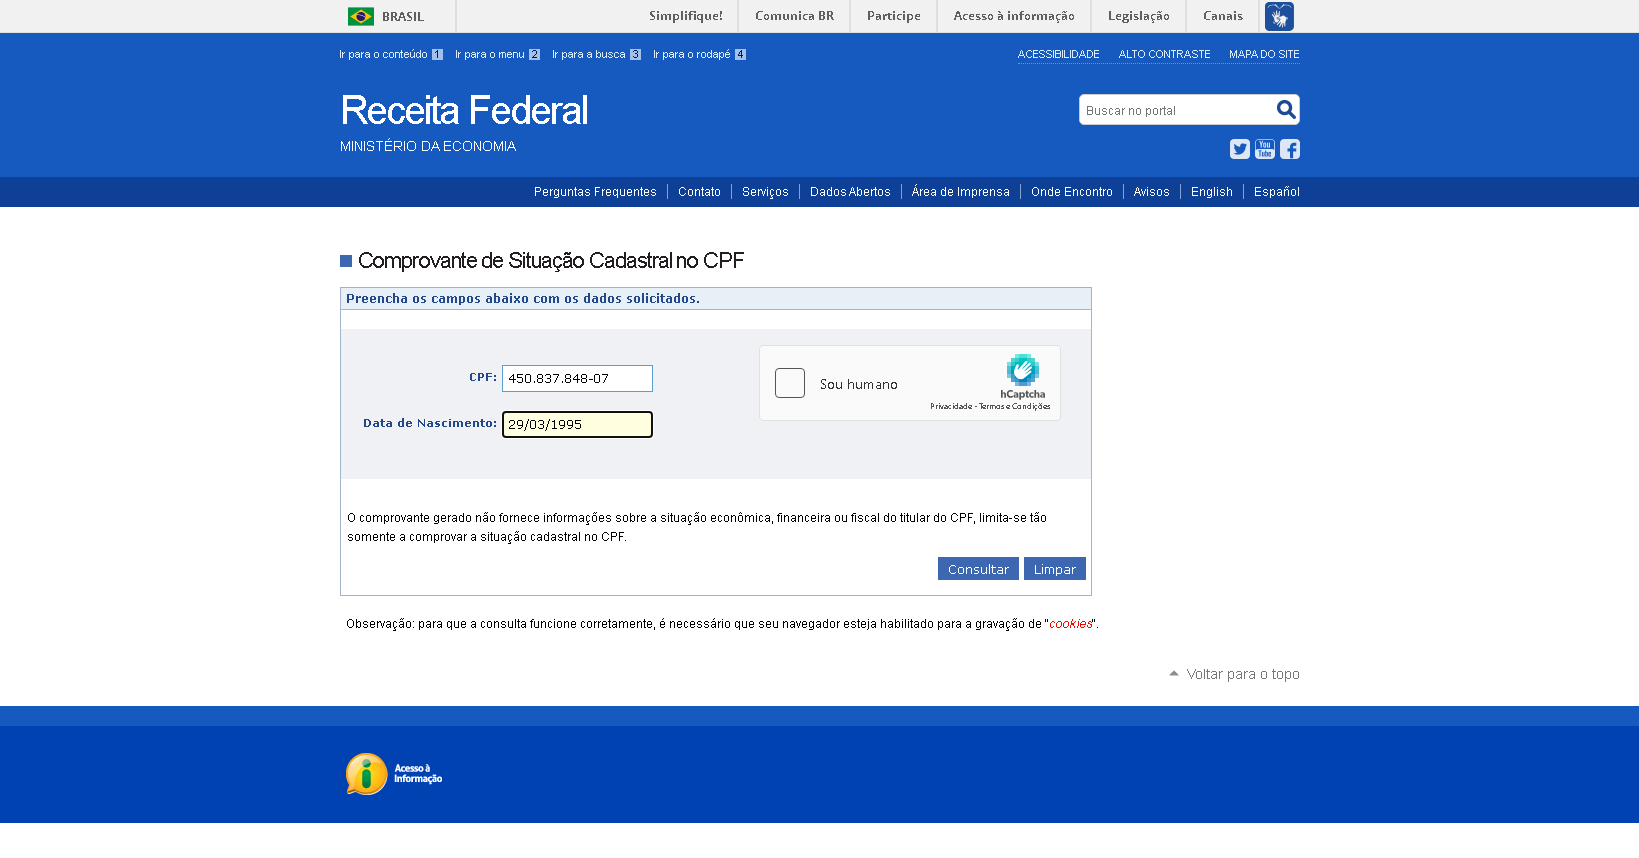
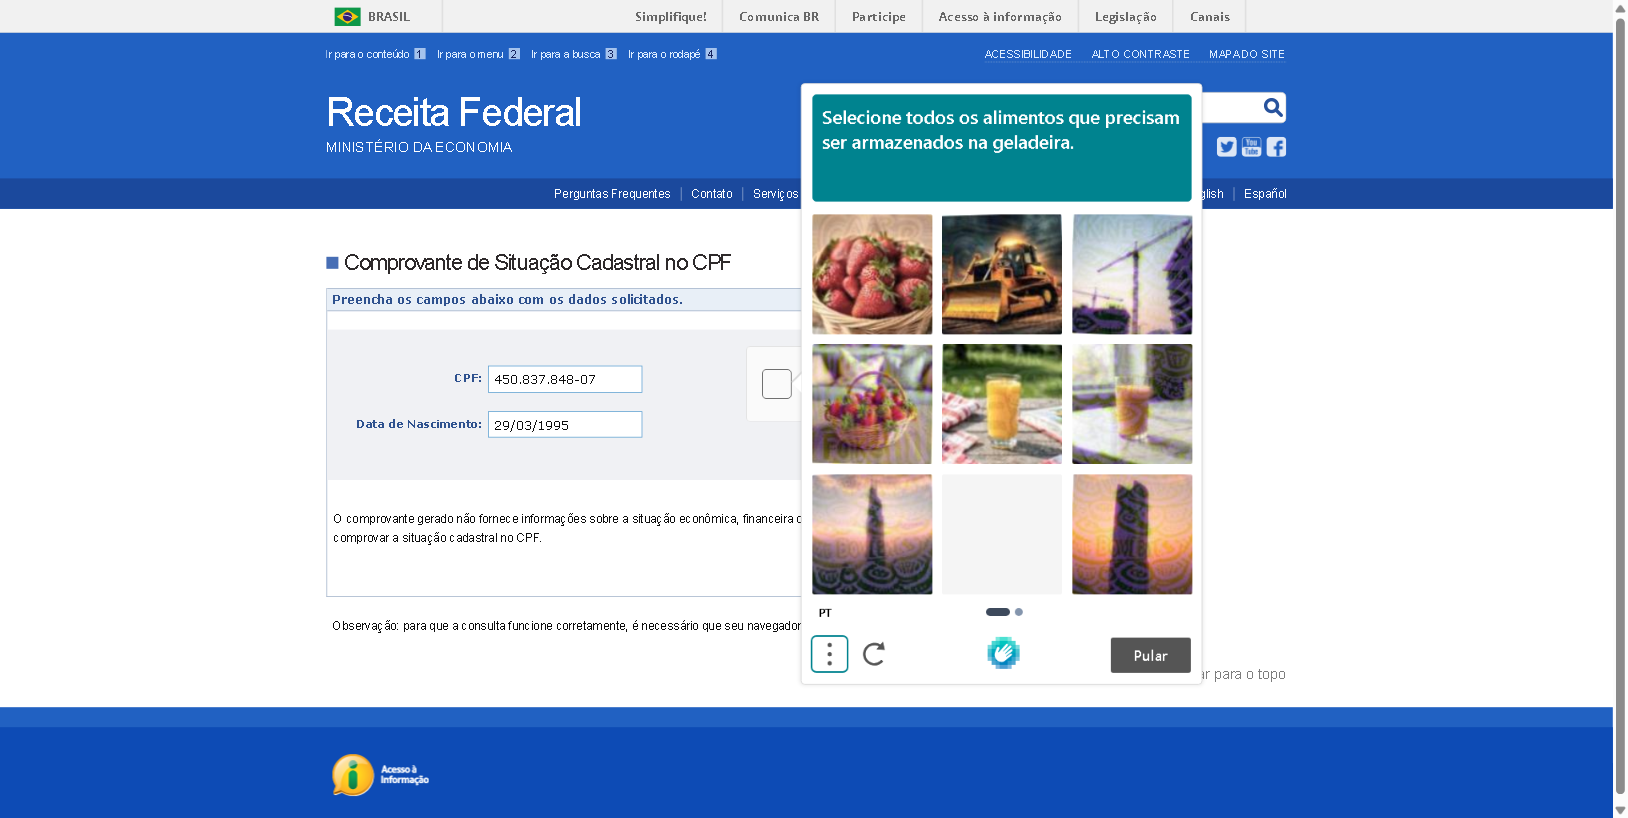
alterado tempo de vida do codigo

Changed region(s): [[0.0, 0.0, 1.0, 1.0], [0.215, 0.4279, 0.3993, 0.5196], [0.4607, 0.0, 0.5528, 0.0306]]

diff --git a/receita-scraper/scraper.js b/receita-scraper/scraper.js
@@ -267,6 +267,24 @@ class PlaywrightWebKitCPFConsultor {
         if (useExtension) {
             console.log('🔌 Extensão do CaptchaSonic detectada! Forçando uso do CHROMIUM para suporte a extensões...');
             browserTypeStr = 'chromium';
+
+            // Garantir que a API Key do .env esteja sincronizada na configuração padrão da extensão
+            const apiKey = process.env.CAPTCHASONIC_KEY;
+            if (apiKey) {
+                const configPath = path.join(extensionPath, 'config', 'defaultConfig.json');
+                if (fs.existsSync(configPath)) {
+                    try {
+                        const defaultConfig = JSON.parse(fs.readFileSync(configPath, 'utf8'));
+                        if (defaultConfig.APIKEY !== apiKey) {
+                            defaultConfig.APIKEY = apiKey;
+                            fs.writeFileSync(configPath, JSON.stringify(defaultConfig, null, 2));
+                            console.log('🔑 API Key do CaptchaSonic sincronizada na extensão!');
+                        }
+                    } catch (err) {
+                        console.log('⚠ Aviso ao sincronizar API Key na extensão:', err.message);
+                    }
+                }
+            }
         }
 
         console.log(`🚀 Iniciando Playwright com ${browserTypeStr.toUpperCase()} para consulta CPF...`);
@@ -372,6 +390,31 @@ class PlaywrightWebKitCPFConsultor {
             const pages = this.context.pages();
             this.page = pages.length > 0 ? pages[0] : await this.context.newPage();
             this.browser = null; // Sem objeto browser em contexto persistente
+
+            // Assegurar que a APIKey do .env é gravada no chrome.storage.local do contexto ativo da extensão
+            const apiKey = process.env.CAPTCHASONIC_KEY;
+            if (apiKey) {
+                try {
+                    let sw = (this.context.serviceWorkers && this.context.serviceWorkers()[0]);
+                    if (!sw && this.context.waitForEvent) {
+                        sw = await this.context.waitForEvent('serviceworker', { timeout: 3000 }).catch(() => null);
+                    }
+                    if (sw) {
+                        await sw.evaluate((key) => {
+                            if (typeof chrome !== 'undefined' && chrome.storage && chrome.storage.local) {
+                                chrome.storage.local.get('settings', (data) => {
+                                    const settings = data.settings || {};
+                                    settings.APIKEY = key;
+                                    settings.ACTIVE = true;
+                                    chrome.storage.local.set({ settings });
+                                });
+                            }
+                        }, apiKey).catch(() => {});
+                    }
+                } catch (swErr) {
+                    // Silencioso se o worker não estiver pronto
+                }
+            }
         } else {
             // Inicialização normal (sem extensão ou navegador diferente do Chromium)
             this.browser = await browserEngine.launch({
@@ -565,7 +608,7 @@ class PlaywrightWebKitCPFConsultor {
             console.log('🔍 Aguardando a resolução do hCaptcha pela extensão CaptchaSonic...');
             try {
                 let resolvido = false;
-                const maxEsperaSegundos = 45;
+                const maxEsperaSegundos = 20;
 
                 for (let sec = 0; sec < maxEsperaSegundos; sec++) {
                     await this.page.waitForTimeout(500);
@@ -610,10 +653,50 @@ class PlaywrightWebKitCPFConsultor {
                 }
 
                 if (!resolvido) {
-                    throw new Error('Tempo limite excedido aguardando a resolução do hCaptcha.');
+                    console.log('⚠ Extensão não preencheu o captcha a tempo. Acionando fallback via API direta do CaptchaSonic...');
+                    
+                    // Extrair sitekey da página
+                    const sitekey = await this.page.evaluate(() => {
+                        const el = document.querySelector('.h-captcha[data-sitekey]');
+                        if (el && el.getAttribute('data-sitekey')) return el.getAttribute('data-sitekey');
+                        const iframe = document.querySelector('iframe[src*="sitekey="]');
+                        if (iframe) {
+                            const match = iframe.src.match(/sitekey=([^&]+)/);
+                            if (match) return match[1];
+                        }
+                        return 'c94f5859-994c-473d-9d41-3b7c8ea3948e';
+                    });
+
+                    const tokenSol = await this.resolverHCaptchaCaptchaSonic(sitekey);
+                    if (tokenSol) {
+                        console.log('✅ Token obtido via API do CaptchaSonic! Aplicando na página...');
+                        await this.page.evaluate((token) => {
+                            const t1 = document.querySelector('[name="h-captcha-response"]');
+                            if (t1) {
+                                t1.value = token;
+                                t1.dispatchEvent(new Event('input', { bubbles: true }));
+                                t1.dispatchEvent(new Event('change', { bubbles: true }));
+                            }
+                            const t2 = document.querySelector('[name="g-recaptcha-response"]');
+                            if (t2) {
+                                t2.value = token;
+                                t2.dispatchEvent(new Event('input', { bubbles: true }));
+                                t2.dispatchEvent(new Event('change', { bubbles: true }));
+                            }
+
+                            const el = document.querySelector('.h-captcha');
+                            if (el) {
+                                const callbackName = el.getAttribute('data-callback');
+                                if (callbackName && typeof window[callbackName] === 'function') {
+                                    window[callbackName](token);
+                                }
+                            }
+                        }, tokenSol);
+                        resolvido = true;
+                    }
                 }
             } catch (error) {
-                console.error('❌ Erro no monitoramento do hCaptcha:', error.message);
+                console.error('❌ Erro no monitoramento/resolução do hCaptcha:', error.message);
                 throw error;
             }
 
